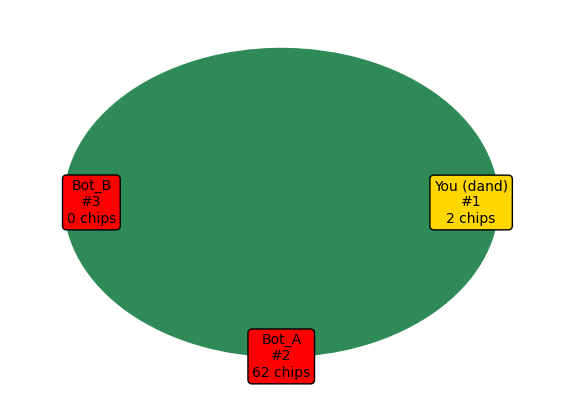
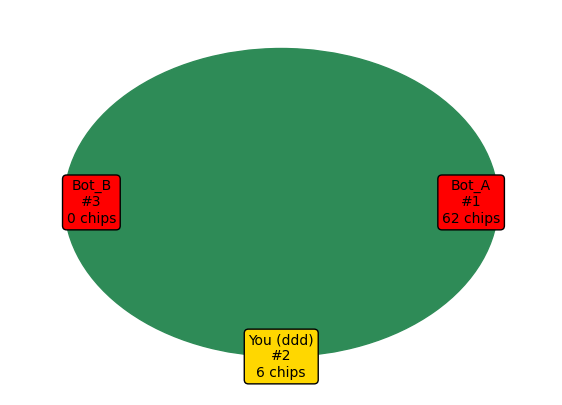
table placment is now correctly based on ratios

Changed region(s): [[0.7562, 0.4148, 0.9377, 0.5926], [0.4235, 0.8, 0.5747, 0.9481]]

diff --git a/324042373_212304836.py b/324042373_212304836.py
@@ -331,7 +331,7 @@ class GameManager:
         chip_counts = [p.chips for p in all_players]
         chip_ratios = []
         for p in all_players:
-            initial = p.total_chips_added #if hasattr(p, 'total_chips_added') else p.chips
+            initial = p.total_chips_added
             ratio = round(p.chips / initial, 2)
             chip_ratios.append((p.name, p.chips, initial, ratio))
         names = [p.name for p in all_players]
@@ -353,7 +353,16 @@ class GameManager:
             else:
                 players_by_seat[seat] = self.bots[bot_index]
                 bot_index = bot_index + 1
-        ranked = sorted([(p.name, p.chips, p.total_chips_added, p.chips + p.total_chips_added if p.total_chips_added else 0, p == self.player) for p in [self.player] + self.bots], key=lambda x: x[3], reverse=True)
+        ranked = sorted(
+            [
+                (
+                    p.name,
+                    p.chips,
+                    p.total_chips_added,
+                    round(p.chips / p.total_chips_added, 5) if p.total_chips_added else 0, p == self.player) for p in [self.player] + self.bots
+            ],
+            key=lambda x: x[3], reverse=True
+        )
         draw_table_by_seat_with_ranks(players_by_seat, self.player_sit, ranked)
         print('Table image with seating and rankings saved as \'table_summary.png\'')
 
